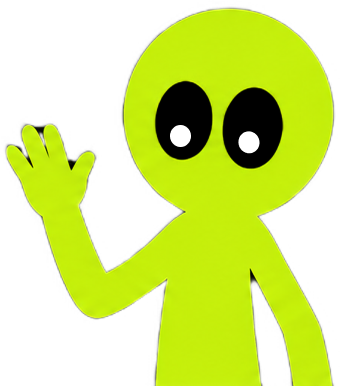
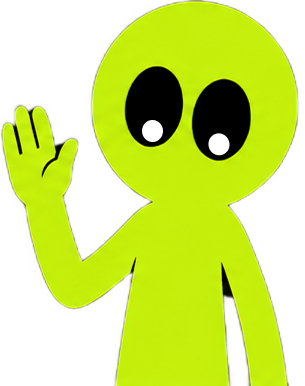
Image upload

diff --git a/src/Pages/Work/Work.css b/src/Pages/Work/Work.css
@@ -234,7 +234,7 @@ input:checked + .slider {
 
 .part_two img {
   display: block;
-  width: 270px;
+  width: 247px;
   bottom: 0px;
   padding-top: 40px;
   object-fit: cover;
